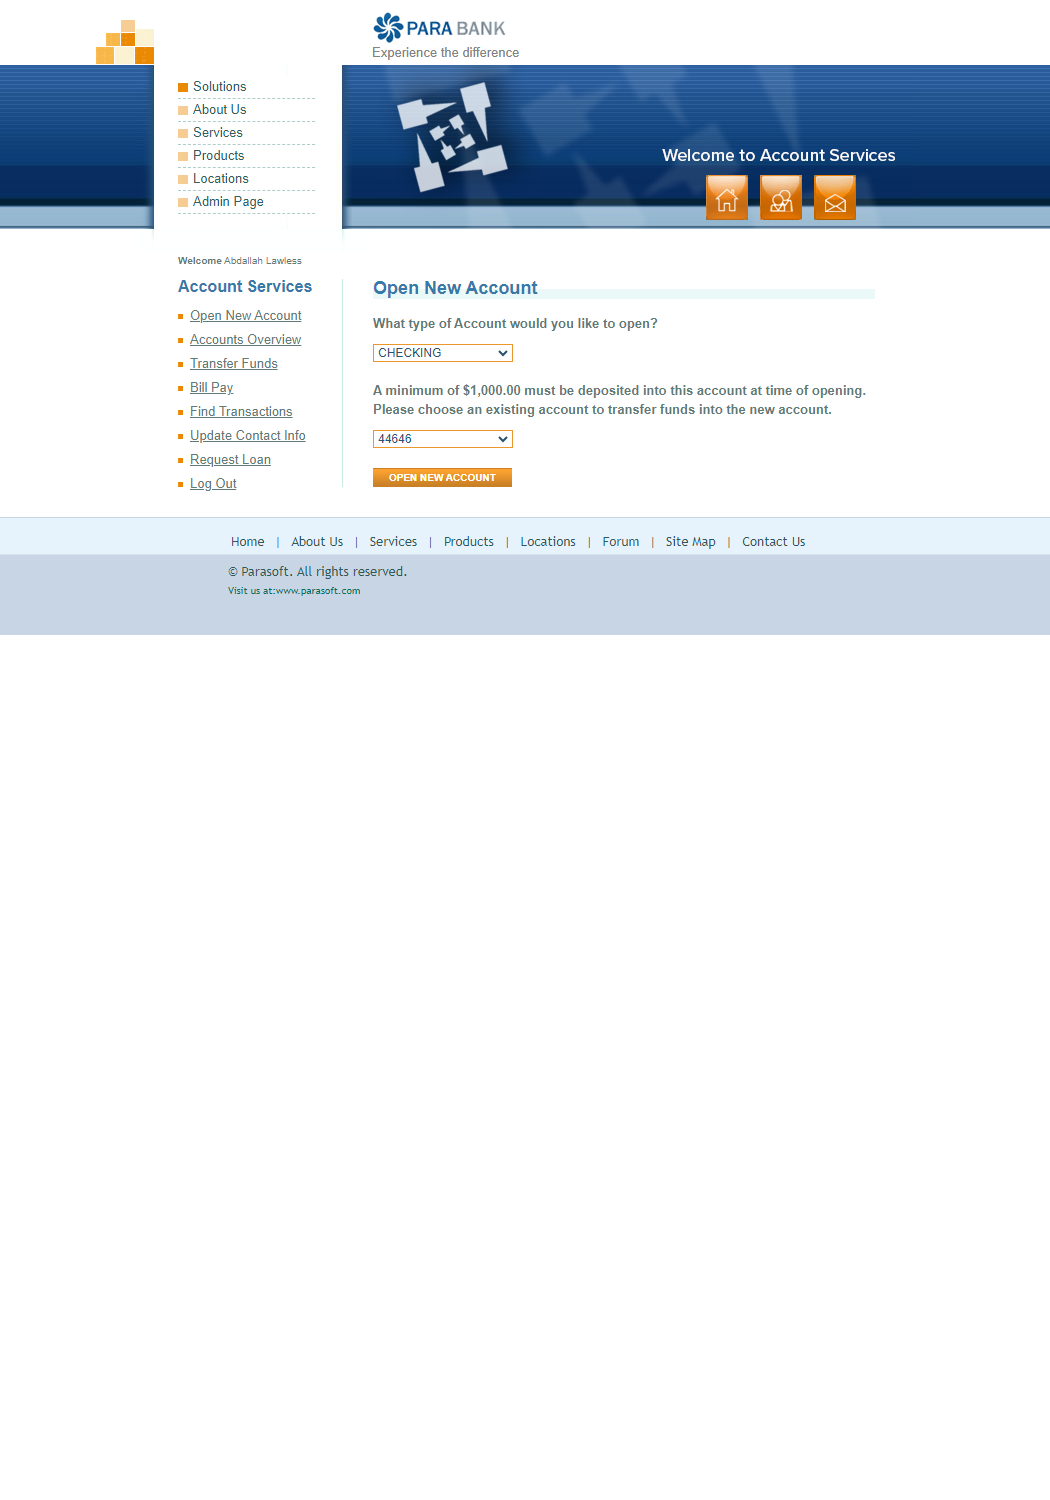
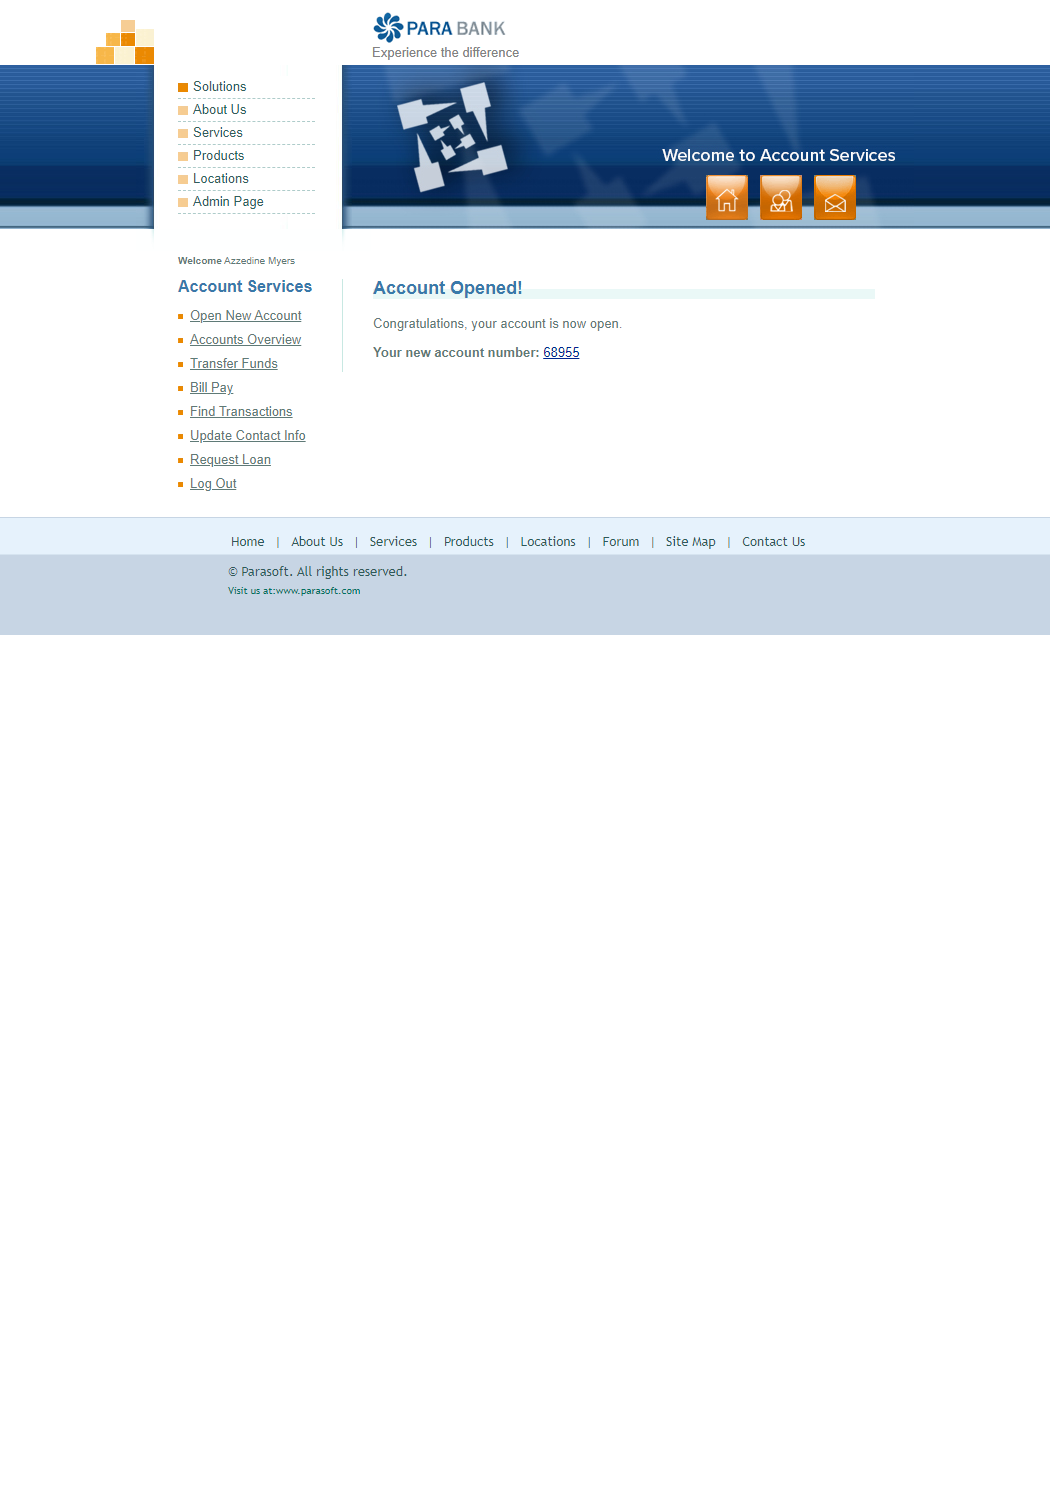
User is able to create new account.

Changed region(s): [[0.3352, 0.184, 0.8229, 0.3373], [0.2438, 0.1533, 0.2743, 0.184]]

diff --git a/src/test/pages/OpenNewAccount.ts b/src/test/pages/OpenNewAccount.ts
@@ -1,5 +1,11 @@
 import { Page, expect } from "@playwright/test";
 import { pageFixture } from "../hooks/pageFixture";
+import { PageElement } from "../resources/interfaces/iPageElement";
+import * as newAccLocators from "../resources/newAccLocators.json";
+
+    function getResource(resourceName: string){
+        return newAccLocators.webElements.find((element: PageElement) => element.elementName == resourceName) as PageElement
+    };
 
 export class NewAccount {
 
@@ -8,12 +14,38 @@ export class NewAccount {
     };
 
     newAccLocators = {
-        newAccTab:()=> pageFixture.page.locator("//div[contains(@id,'leftPanel')]//li[1]"),
-        newAccHeading:()=> pageFixture.page.locator("//div[contains(@id,'rightPanel')]//h1")
+        newAccTab:()=> pageFixture.page.locator(getResource('newAccTab').selectorValue),
+        newAccHeading:()=> pageFixture.page.locator(getResource('newAccHeading').selectorValue),
+        accountTypeDropDown:()=> pageFixture.page.locator(getResource('accountTypeDropDown').selectorValue),
+        accountNumberDropDown:()=> pageFixture.page.locator(getResource('accountNumberDropDown').selectorValue),
+        accountConfirmation:()=> pageFixture.page.locator(getResource('accountConfirmation').selectorValue),
+        openNewAccBtn:()=> pageFixture.page.locator(getResource('openNewAccBtn').selectorValue)
+        
     };
 
-    public async navigateToOpenNewAcc() {
+    public async navigateToOpenNewAcc():Promise<void> {
         await this.newAccLocators.newAccTab().click();
         await expect(this.newAccLocators.newAccHeading()).toHaveText('Open New Account');
+    };
+
+    public async selectAccountType(selectAccount: string):Promise<void> {
+        await this.newAccLocators.accountTypeDropDown().click();
+        await this.newAccLocators.accountTypeDropDown().selectOption(selectAccount);
+        await this.newAccLocators.accountNumberDropDown().click();
+    };
+
+    public async selectAccountNum():Promise<void> {
+        await this.newAccLocators.accountNumberDropDown().click();
+        let getAccNums = [await this.newAccLocators.accountNumberDropDown().textContent()];
+        await this.newAccLocators.accountNumberDropDown().selectOption(getAccNums);
+        await this.newAccLocators.openNewAccBtn().click();
+    };
+
+    public async isAccOpened():Promise<void> {
+        const confirmAcc = this.newAccLocators.accountConfirmation();
+        await confirmAcc.textContent();
+        await expect(confirmAcc).toContainText(await this.newAccLocators.accountConfirmation().textContent());
+        process.stdout.write(`${await confirmAcc.textContent()}`);
+        
     };
 };

diff --git a/src/test/steps/openNewAccStepDef.ts b/src/test/steps/openNewAccStepDef.ts
@@ -8,6 +8,14 @@ When('The user navigates to open new account tab.', async function () {
     await newAccount.navigateToOpenNewAcc();
 });
 
-Then('User is able to create new checking account.', async function () {
-    console.log('Test.')
+When('User is able to create new {string}.', async function (selectAccount: string) {
+    await newAccount.selectAccountType(selectAccount);
+});
+
+When('User selects the account number.', async function () {
+    await newAccount.selectAccountNum();
+});
+
+Then('User account is opened.', async function () {
+    await newAccount.isAccOpened();
 });

diff --git a/playwright.config.ts b/playwright.config.ts
@@ -4,7 +4,7 @@ export const config:LaunchOptions = {
   
     timeout: 600000,
     slowMo: 300,
-    headless: true,
+    headless: false,
     args: ['--window-position=1930,-100'] //! Used secondary monitor, can be removed/adjusted to show on default monitor.
 
 };

diff --git a/src/test/resources/interfaces/iPageElement.ts b/src/test/resources/interfaces/iPageElement.ts
@@ -1,0 +1,4 @@
+export interface PageElement {
+    elementName: string;
+    selectorValue: string;
+};
